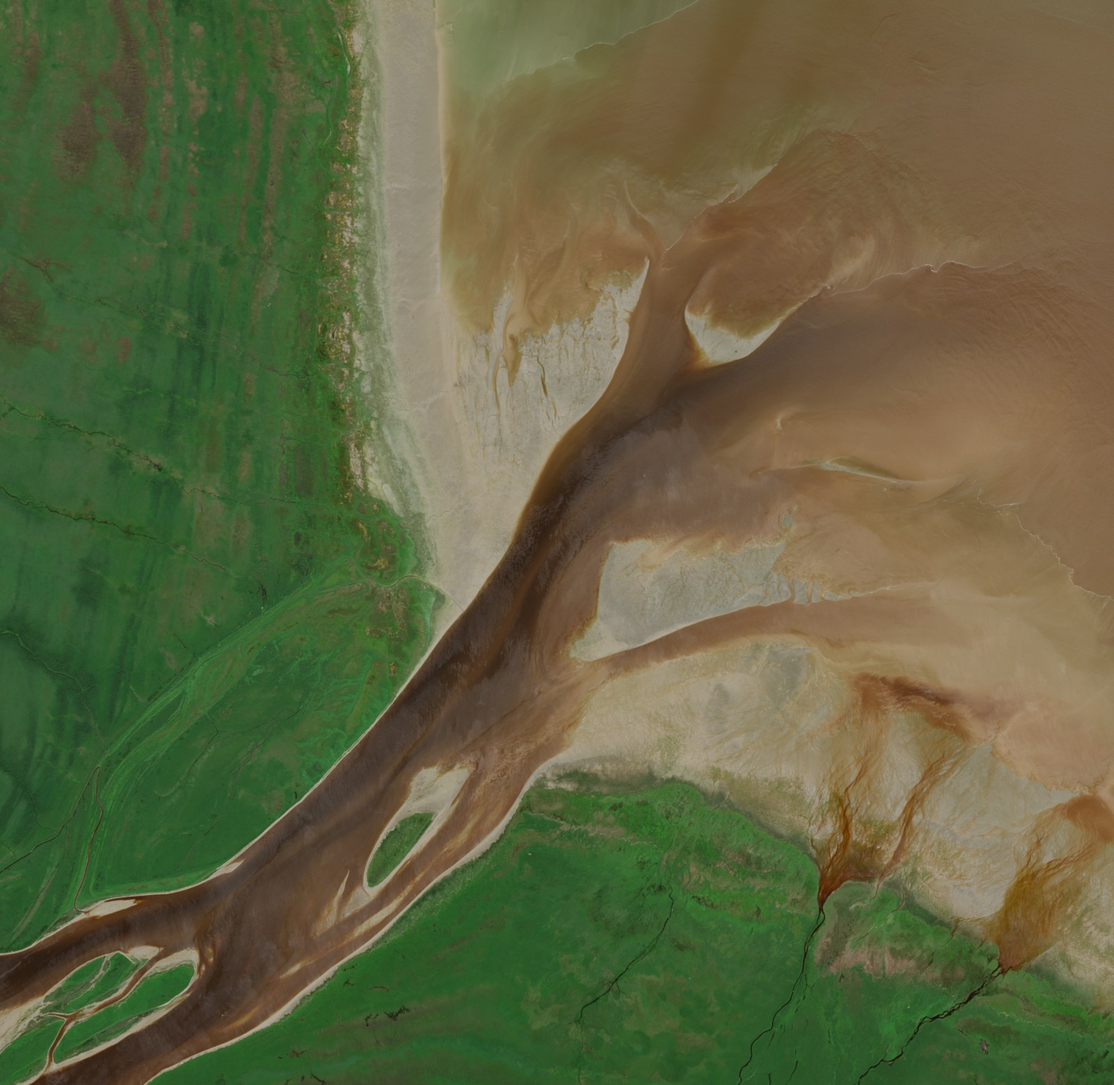
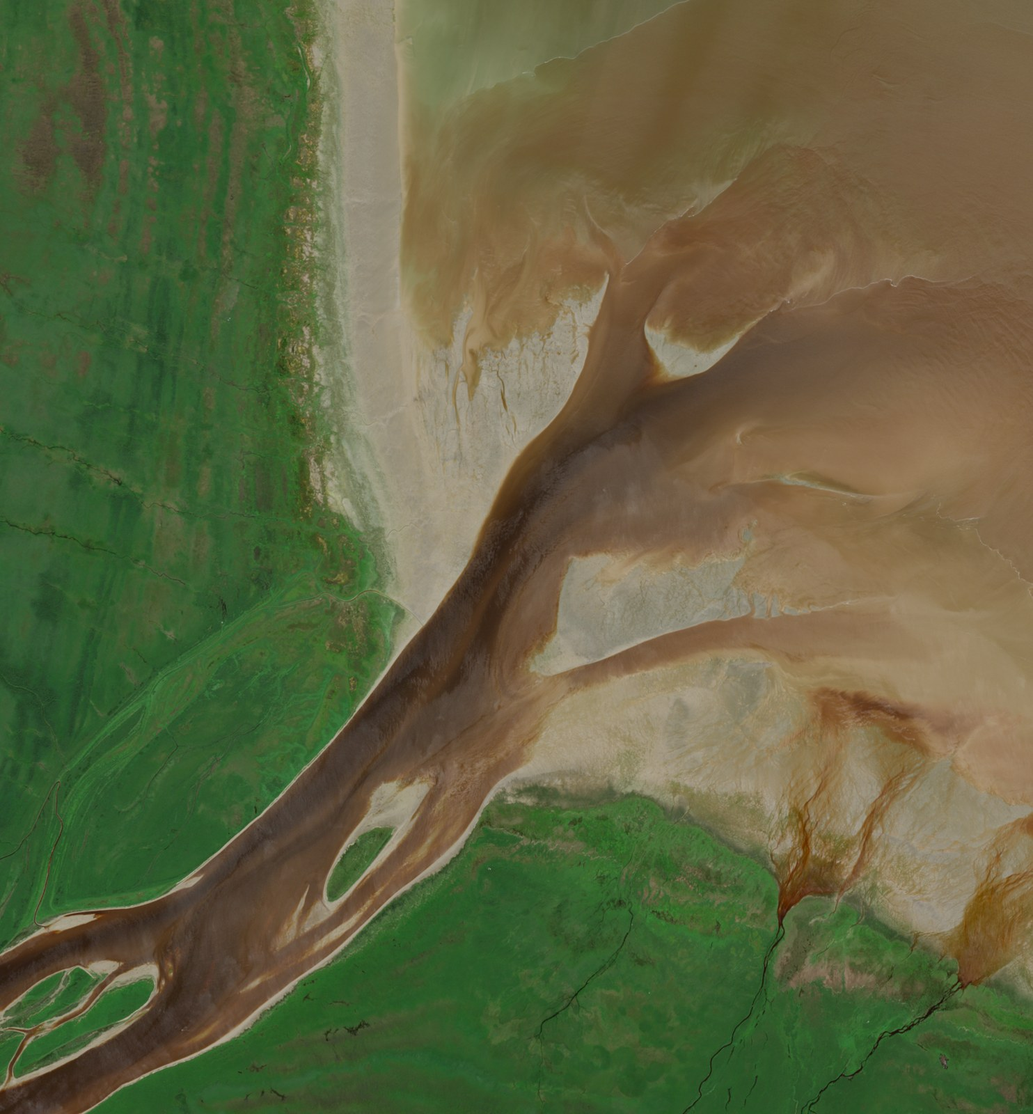
Re-render 10 former-SE pieces to flat 16x20 spec, matching the rest of the catalogue
Forest Braid, Salt Pond Isle, Cape Divide, Canterbury Braid, Amber Estuary,
Bleeding Delta, Red Estuary, Silver Melt, Green Maze, River's Fingers were
still at the old 5850x7050 wrap-inclusive canvas spec (0.83 aspect) from
their original SE Series rendering. Re-rendered via make_16x20_fullbleed.py
to the flat 4800x6000 spec (0.8 aspect) used by the rest of the catalogue.

diff --git a/index.html b/index.html
@@ -879,7 +879,7 @@
   </div>
 </a></div>
 <div class="grid-item" data-collection="ice-water" data-country="US"><a class="card" href="collections/ice-water/the-forest-braid-no-1/index.html">
-  <div class="card-img" style="aspect-ratio: 1328 / 1600;"><img src="assets/img/FFO-US-008/poster-preview.jpg" alt="The Forest Braid No. 1 — satellite art poster of Tanana River · Alaska, USA, shown with its museum label" loading="lazy"></div>
+  <div class="card-img" style="aspect-ratio: 1280 / 1600;"><img src="assets/img/FFO-US-008/poster-preview.jpg" alt="The Forest Braid No. 1 — satellite art poster of Tanana River · Alaska, USA, shown with its museum label" loading="lazy"></div>
   <div class="card-body">
     <h3>The Forest Braid No. 1</h3>
     <p class="card-place">Tanana River · Alaska, USA</p>
@@ -887,7 +887,7 @@
   </div>
 </a></div>
 <div class="grid-item" data-collection="ice-water" data-country="US"><a class="card" href="collections/ice-water/the-salt-pond-isle-no-1/index.html">
-  <div class="card-img" style="aspect-ratio: 1328 / 1600;"><img src="assets/img/FFO-US-009/poster-preview.jpg" alt="The Salt Pond Isle No. 1 — satellite art poster of Block Island · Rhode Island, USA, shown with its museum label" loading="lazy"></div>
+  <div class="card-img" style="aspect-ratio: 1280 / 1600;"><img src="assets/img/FFO-US-009/poster-preview.jpg" alt="The Salt Pond Isle No. 1 — satellite art poster of Block Island · Rhode Island, USA, shown with its museum label" loading="lazy"></div>
   <div class="card-body">
     <h3>The Salt Pond Isle No. 1</h3>
     <p class="card-place">Block Island · Rhode Island, USA</p>
@@ -895,7 +895,7 @@
   </div>
 </a></div>
 <div class="grid-item" data-collection="ice-water" data-country="CA"><a class="card" href="collections/ice-water/the-amber-estuary-no-1/index.html">
-  <div class="card-img" style="aspect-ratio: 1328 / 1600;"><img src="assets/img/FFO-CA-015/poster-preview.jpg" alt="The Amber Estuary No. 1 — satellite art poster of James Bay coast · Ontario, Canada, shown with its museum label" loading="lazy"></div>
+  <div class="card-img" style="aspect-ratio: 1280 / 1600;"><img src="assets/img/FFO-CA-015/poster-preview.jpg" alt="The Amber Estuary No. 1 — satellite art poster of James Bay coast · Ontario, Canada, shown with its museum label" loading="lazy"></div>
   <div class="card-body">
     <h3>The Amber Estuary No. 1</h3>
     <p class="card-place">James Bay coast · Ontario, Canada</p>
@@ -903,7 +903,7 @@
   </div>
 </a></div>
 <div class="grid-item" data-collection="ice-water" data-country="IS"><a class="card" href="collections/ice-water/the-silver-melt-no-1/index.html">
-  <div class="card-img" style="aspect-ratio: 1328 / 1600;"><img src="assets/img/FFO-IS-003/poster-preview.jpg" alt="The Silver Melt No. 1 — satellite art poster of South Iceland, shown with its museum label" loading="lazy"></div>
+  <div class="card-img" style="aspect-ratio: 1280 / 1600;"><img src="assets/img/FFO-IS-003/poster-preview.jpg" alt="The Silver Melt No. 1 — satellite art poster of South Iceland, shown with its museum label" loading="lazy"></div>
   <div class="card-body">
     <h3>The Silver Melt No. 1</h3>
     <p class="card-place">South Iceland</p>
@@ -911,7 +911,7 @@
   </div>
 </a></div>
 <div class="grid-item" data-collection="ice-water" data-country="BD"><a class="card" href="collections/ice-water/the-green-maze-no-1/index.html">
-  <div class="card-img" style="aspect-ratio: 1328 / 1600;"><img src="assets/img/FFO-BD-002/poster-preview.jpg" alt="The Green Maze No. 1 — satellite art poster of Sundarbans coast · Bangladesh, shown with its museum label" loading="lazy"></div>
+  <div class="card-img" style="aspect-ratio: 1280 / 1600;"><img src="assets/img/FFO-BD-002/poster-preview.jpg" alt="The Green Maze No. 1 — satellite art poster of Sundarbans coast · Bangladesh, shown with its museum label" loading="lazy"></div>
   <div class="card-body">
     <h3>The Green Maze No. 1</h3>
     <p class="card-place">Sundarbans coast · Bangladesh</p>
@@ -919,7 +919,7 @@
   </div>
 </a></div>
 <div class="grid-item" data-collection="ice-water" data-country="MM"><a class="card" href="collections/ice-water/the-rivers-fingers-no-1/index.html">
-  <div class="card-img" style="aspect-ratio: 1328 / 1600;"><img src="assets/img/FFO-MM-001/poster-preview.jpg" alt="The River's Fingers No. 1 — satellite art poster of Irrawaddy Delta · Myanmar, shown with its museum label" loading="lazy"></div>
+  <div class="card-img" style="aspect-ratio: 1280 / 1600;"><img src="assets/img/FFO-MM-001/poster-preview.jpg" alt="The River's Fingers No. 1 — satellite art poster of Irrawaddy Delta · Myanmar, shown with its museum label" loading="lazy"></div>
   <div class="card-body">
     <h3>The River's Fingers No. 1</h3>
     <p class="card-place">Irrawaddy Delta · Myanmar</p>
@@ -927,7 +927,7 @@
   </div>
 </a></div>
 <div class="grid-item" data-collection="ice-water" data-country="NZ"><a class="card" href="collections/ice-water/the-canterbury-braid-no-1/index.html">
-  <div class="card-img" style="aspect-ratio: 1328 / 1600;"><img src="assets/img/FFO-NZ-001/poster-preview.jpg" alt="The Canterbury Braid No. 1 — satellite art poster of Canterbury, New Zealand, shown with its museum label" loading="lazy"></div>
+  <div class="card-img" style="aspect-ratio: 1280 / 1600;"><img src="assets/img/FFO-NZ-001/poster-preview.jpg" alt="The Canterbury Braid No. 1 — satellite art poster of Canterbury, New Zealand, shown with its museum label" loading="lazy"></div>
   <div class="card-body">
     <h3>The Canterbury Braid No. 1</h3>
     <p class="card-place">Canterbury, New Zealand</p>
@@ -935,7 +935,7 @@
   </div>
 </a></div>
 <div class="grid-item" data-collection="ice-water" data-country="ZA"><a class="card" href="collections/ice-water/the-cape-divide-no-1/index.html">
-  <div class="card-img" style="aspect-ratio: 1328 / 1600;"><img src="assets/img/FFO-ZA-001/poster-preview.jpg" alt="The Cape Divide No. 1 — satellite art poster of Southern Cape coast · South Africa, shown with its museum label" loading="lazy"></div>
+  <div class="card-img" style="aspect-ratio: 1280 / 1600;"><img src="assets/img/FFO-ZA-001/poster-preview.jpg" alt="The Cape Divide No. 1 — satellite art poster of Southern Cape coast · South Africa, shown with its museum label" loading="lazy"></div>
   <div class="card-body">
     <h3>The Cape Divide No. 1</h3>
     <p class="card-place">Southern Cape coast · South Africa</p>
@@ -943,7 +943,7 @@
   </div>
 </a></div>
 <div class="grid-item" data-collection="ice-water" data-country="MG"><a class="card" href="collections/ice-water/the-bleeding-delta-no-1/index.html">
-  <div class="card-img" style="aspect-ratio: 1328 / 1600;"><img src="assets/img/FFO-MG-001/poster-preview.jpg" alt="The Bleeding Delta No. 1 — satellite art poster of Bombetoka Bay · Madagascar, shown with its museum label" loading="lazy"></div>
+  <div class="card-img" style="aspect-ratio: 1280 / 1600;"><img src="assets/img/FFO-MG-001/poster-preview.jpg" alt="The Bleeding Delta No. 1 — satellite art poster of Bombetoka Bay · Madagascar, shown with its museum label" loading="lazy"></div>
   <div class="card-body">
     <h3>The Bleeding Delta No. 1</h3>
     <p class="card-place">Bombetoka Bay · Madagascar</p>
@@ -951,7 +951,7 @@
   </div>
 </a></div>
 <div class="grid-item" data-collection="ice-water" data-country="MG"><a class="card" href="collections/ice-water/the-red-estuary-no-1/index.html">
-  <div class="card-img" style="aspect-ratio: 1328 / 1600;"><img src="assets/img/FFO-MG-002/poster-preview.jpg" alt="The Red Estuary No. 1 — satellite art poster of Bombetoka Bay · Madagascar, shown with its museum label" loading="lazy"></div>
+  <div class="card-img" style="aspect-ratio: 1280 / 1600;"><img src="assets/img/FFO-MG-002/poster-preview.jpg" alt="The Red Estuary No. 1 — satellite art poster of Bombetoka Bay · Madagascar, shown with its museum label" loading="lazy"></div>
   <div class="card-body">
     <h3>The Red Estuary No. 1</h3>
     <p class="card-place">Bombetoka Bay · Madagascar</p>

diff --git a/favourites/index.html b/favourites/index.html
@@ -75,7 +75,7 @@
   </div>
 </a></div>
 <div class="grid-item" data-fav-code="FFO-CA-015"><a class="card" href="../collections/ice-water/the-amber-estuary-no-1/index.html">
-  <div class="card-img" style="aspect-ratio: 1328 / 1600;"><img src="../assets/img/FFO-CA-015/poster-preview.jpg" alt="The Amber Estuary No. 1 — satellite art poster of James Bay coast · Ontario, Canada, shown with its museum label" loading="lazy"></div>
+  <div class="card-img" style="aspect-ratio: 1280 / 1600;"><img src="../assets/img/FFO-CA-015/poster-preview.jpg" alt="The Amber Estuary No. 1 — satellite art poster of James Bay coast · Ontario, Canada, shown with its museum label" loading="lazy"></div>
   <div class="card-body">
     <h3>The Amber Estuary No. 1</h3>
     <p class="card-place">James Bay coast · Ontario, Canada</p>
@@ -91,7 +91,7 @@
   </div>
 </a></div>
 <div class="grid-item" data-fav-code="FFO-MG-001"><a class="card" href="../collections/ice-water/the-bleeding-delta-no-1/index.html">
-  <div class="card-img" style="aspect-ratio: 1328 / 1600;"><img src="../assets/img/FFO-MG-001/poster-preview.jpg" alt="The Bleeding Delta No. 1 — satellite art poster of Bombetoka Bay · Madagascar, shown with its museum label" loading="lazy"></div>
+  <div class="card-img" style="aspect-ratio: 1280 / 1600;"><img src="../assets/img/FFO-MG-001/poster-preview.jpg" alt="The Bleeding Delta No. 1 — satellite art poster of Bombetoka Bay · Madagascar, shown with its museum label" loading="lazy"></div>
   <div class="card-body">
     <h3>The Bleeding Delta No. 1</h3>
     <p class="card-place">Bombetoka Bay · Madagascar</p>
@@ -107,7 +107,7 @@
   </div>
 </a></div>
 <div class="grid-item" data-fav-code="FFO-NZ-001"><a class="card" href="../collections/ice-water/the-canterbury-braid-no-1/index.html">
-  <div class="card-img" style="aspect-ratio: 1328 / 1600;"><img src="../assets/img/FFO-NZ-001/poster-preview.jpg" alt="The Canterbury Braid No. 1 — satellite art poster of Canterbury, New Zealand, shown with its museum label" loading="lazy"></div>
+  <div class="card-img" style="aspect-ratio: 1280 / 1600;"><img src="../assets/img/FFO-NZ-001/poster-preview.jpg" alt="The Canterbury Braid No. 1 — satellite art poster of Canterbury, New Zealand, shown with its museum label" loading="lazy"></div>
   <div class="card-body">
     <h3>The Canterbury Braid No. 1</h3>
     <p class="card-place">Canterbury, New Zealand</p>
@@ -115,7 +115,7 @@
   </div>
 </a></div>
 <div class="grid-item" data-fav-code="FFO-ZA-001"><a class="card" href="../collections/ice-water/the-cape-divide-no-1/index.html">
-  <div class="card-img" style="aspect-ratio: 1328 / 1600;"><img src="../assets/img/FFO-ZA-001/poster-preview.jpg" alt="The Cape Divide No. 1 — satellite art poster of Southern Cape coast · South Africa, shown with its museum label" loading="lazy"></div>
+  <div class="card-img" style="aspect-ratio: 1280 / 1600;"><img src="../assets/img/FFO-ZA-001/poster-preview.jpg" alt="The Cape Divide No. 1 — satellite art poster of Southern Cape coast · South Africa, shown with its museum label" loading="lazy"></div>
   <div class="card-body">
     <h3>The Cape Divide No. 1</h3>
     <p class="card-place">Southern Cape coast · South Africa</p>
@@ -251,7 +251,7 @@
   </div>
 </a></div>
 <div class="grid-item" data-fav-code="FFO-US-008"><a class="card" href="../collections/ice-water/the-forest-braid-no-1/index.html">
-  <div class="card-img" style="aspect-ratio: 1328 / 1600;"><img src="../assets/img/FFO-US-008/poster-preview.jpg" alt="The Forest Braid No. 1 — satellite art poster of Tanana River · Alaska, USA, shown with its museum label" loading="lazy"></div>
+  <div class="card-img" style="aspect-ratio: 1280 / 1600;"><img src="../assets/img/FFO-US-008/poster-preview.jpg" alt="The Forest Braid No. 1 — satellite art poster of Tanana River · Alaska, USA, shown with its museum label" loading="lazy"></div>
   <div class="card-body">
     <h3>The Forest Braid No. 1</h3>
     <p class="card-place">Tanana River · Alaska, USA</p>
@@ -291,7 +291,7 @@
   </div>
 </a></div>
 <div class="grid-item" data-fav-code="FFO-BD-002"><a class="card" href="../collections/ice-water/the-green-maze-no-1/index.html">
-  <div class="card-img" style="aspect-ratio: 1328 / 1600;"><img src="../assets/img/FFO-BD-002/poster-preview.jpg" alt="The Green Maze No. 1 — satellite art poster of Sundarbans coast · Bangladesh, shown with its museum label" loading="lazy"></div>
+  <div class="card-img" style="aspect-ratio: 1280 / 1600;"><img src="../assets/img/FFO-BD-002/poster-preview.jpg" alt="The Green Maze No. 1 — satellite art poster of Sundarbans coast · Bangladesh, shown with its museum label" loading="lazy"></div>
   <div class="card-body">
     <h3>The Green Maze No. 1</h3>
     <p class="card-place">Sundarbans coast · Bangladesh</p>
@@ -395,7 +395,7 @@
   </div>
 </a></div>
 <div class="grid-item" data-fav-code="FFO-MG-002"><a class="card" href="../collections/ice-water/the-red-estuary-no-1/index.html">
-  <div class="card-img" style="aspect-ratio: 1328 / 1600;"><img src="../assets/img/FFO-MG-002/poster-preview.jpg" alt="The Red Estuary No. 1 — satellite art poster of Bombetoka Bay · Madagascar, shown with its museum label" loading="lazy"></div>
+  <div class="card-img" style="aspect-ratio: 1280 / 1600;"><img src="../assets/img/FFO-MG-002/poster-preview.jpg" alt="The Red Estuary No. 1 — satellite art poster of Bombetoka Bay · Madagascar, shown with its museum label" loading="lazy"></div>
   <div class="card-body">
     <h3>The Red Estuary No. 1</h3>
     <p class="card-place">Bombetoka Bay · Madagascar</p>
@@ -427,7 +427,7 @@
   </div>
 </a></div>
 <div class="grid-item" data-fav-code="FFO-MM-001"><a class="card" href="../collections/ice-water/the-rivers-fingers-no-1/index.html">
-  <div class="card-img" style="aspect-ratio: 1328 / 1600;"><img src="../assets/img/FFO-MM-001/poster-preview.jpg" alt="The River's Fingers No. 1 — satellite art poster of Irrawaddy Delta · Myanmar, shown with its museum label" loading="lazy"></div>
+  <div class="card-img" style="aspect-ratio: 1280 / 1600;"><img src="../assets/img/FFO-MM-001/poster-preview.jpg" alt="The River's Fingers No. 1 — satellite art poster of Irrawaddy Delta · Myanmar, shown with its museum label" loading="lazy"></div>
   <div class="card-body">
     <h3>The River's Fingers No. 1</h3>
     <p class="card-place">Irrawaddy Delta · Myanmar</p>
@@ -451,7 +451,7 @@
   </div>
 </a></div>
 <div class="grid-item" data-fav-code="FFO-US-009"><a class="card" href="../collections/ice-water/the-salt-pond-isle-no-1/index.html">
-  <div class="card-img" style="aspect-ratio: 1328 / 1600;"><img src="../assets/img/FFO-US-009/poster-preview.jpg" alt="The Salt Pond Isle No. 1 — satellite art poster of Block Island · Rhode Island, USA, shown with its museum label" loading="lazy"></div>
+  <div class="card-img" style="aspect-ratio: 1280 / 1600;"><img src="../assets/img/FFO-US-009/poster-preview.jpg" alt="The Salt Pond Isle No. 1 — satellite art poster of Block Island · Rhode Island, USA, shown with its museum label" loading="lazy"></div>
   <div class="card-body">
     <h3>The Salt Pond Isle No. 1</h3>
     <p class="card-place">Block Island · Rhode Island, USA</p>
@@ -483,7 +483,7 @@
   </div>
 </a></div>
 <div class="grid-item" data-fav-code="FFO-IS-003"><a class="card" href="../collections/ice-water/the-silver-melt-no-1/index.html">
-  <div class="card-img" style="aspect-ratio: 1328 / 1600;"><img src="../assets/img/FFO-IS-003/poster-preview.jpg" alt="The Silver Melt No. 1 — satellite art poster of South Iceland, shown with its museum label" loading="lazy"></div>
+  <div class="card-img" style="aspect-ratio: 1280 / 1600;"><img src="../assets/img/FFO-IS-003/poster-preview.jpg" alt="The Silver Melt No. 1 — satellite art poster of South Iceland, shown with its museum label" loading="lazy"></div>
   <div class="card-body">
     <h3>The Silver Melt No. 1</h3>
     <p class="card-place">South Iceland</p>

diff --git a/collections/ice-water/index.html b/collections/ice-water/index.html
@@ -226,7 +226,7 @@
   </div>
 </a></div>
 <div class="grid-item"><a class="card" href="../../collections/ice-water/the-forest-braid-no-1/index.html">
-  <div class="card-img" style="aspect-ratio: 1328 / 1600;"><img src="../../assets/img/FFO-US-008/poster-preview.jpg" alt="The Forest Braid No. 1 — satellite art poster of Tanana River · Alaska, USA, shown with its museum label" loading="lazy"></div>
+  <div class="card-img" style="aspect-ratio: 1280 / 1600;"><img src="../../assets/img/FFO-US-008/poster-preview.jpg" alt="The Forest Braid No. 1 — satellite art poster of Tanana River · Alaska, USA, shown with its museum label" loading="lazy"></div>
   <div class="card-body">
     <h3>The Forest Braid No. 1</h3>
     <p class="card-place">Tanana River · Alaska, USA</p>
@@ -234,7 +234,7 @@
   </div>
 </a></div>
 <div class="grid-item"><a class="card" href="../../collections/ice-water/the-salt-pond-isle-no-1/index.html">
-  <div class="card-img" style="aspect-ratio: 1328 / 1600;"><img src="../../assets/img/FFO-US-009/poster-preview.jpg" alt="The Salt Pond Isle No. 1 — satellite art poster of Block Island · Rhode Island, USA, shown with its museum label" loading="lazy"></div>
+  <div class="card-img" style="aspect-ratio: 1280 / 1600;"><img src="../../assets/img/FFO-US-009/poster-preview.jpg" alt="The Salt Pond Isle No. 1 — satellite art poster of Block Island · Rhode Island, USA, shown with its museum label" loading="lazy"></div>
   <div class="card-body">
     <h3>The Salt Pond Isle No. 1</h3>
     <p class="card-place">Block Island · Rhode Island, USA</p>
@@ -242,7 +242,7 @@
   </div>
 </a></div>
 <div class="grid-item"><a class="card" href="../../collections/ice-water/the-amber-estuary-no-1/index.html">
-  <div class="card-img" style="aspect-ratio: 1328 / 1600;"><img src="../../assets/img/FFO-CA-015/poster-preview.jpg" alt="The Amber Estuary No. 1 — satellite art poster of James Bay coast · Ontario, Canada, shown with its museum label" loading="lazy"></div>
+  <div class="card-img" style="aspect-ratio: 1280 / 1600;"><img src="../../assets/img/FFO-CA-015/poster-preview.jpg" alt="The Amber Estuary No. 1 — satellite art poster of James Bay coast · Ontario, Canada, shown with its museum label" loading="lazy"></div>
   <div class="card-body">
     <h3>The Amber Estuary No. 1</h3>
     <p class="card-place">James Bay coast · Ontario, Canada</p>
@@ -250,7 +250,7 @@
   </div>
 </a></div>
 <div class="grid-item"><a class="card" href="../../collections/ice-water/the-silver-melt-no-1/index.html">
-  <div class="card-img" style="aspect-ratio: 1328 / 1600;"><img src="../../assets/img/FFO-IS-003/poster-preview.jpg" alt="The Silver Melt No. 1 — satellite art poster of South Iceland, shown with its museum label" loading="lazy"></div>
+  <div class="card-img" style="aspect-ratio: 1280 / 1600;"><img src="../../assets/img/FFO-IS-003/poster-preview.jpg" alt="The Silver Melt No. 1 — satellite art poster of South Iceland, shown with its museum label" loading="lazy"></div>
   <div class="card-body">
     <h3>The Silver Melt No. 1</h3>
     <p class="card-place">South Iceland</p>
@@ -258,7 +258,7 @@
   </div>
 </a></div>
 <div class="grid-item"><a class="card" href="../../collections/ice-water/the-green-maze-no-1/index.html">
-  <div class="card-img" style="aspect-ratio: 1328 / 1600;"><img src="../../assets/img/FFO-BD-002/poster-preview.jpg" alt="The Green Maze No. 1 — satellite art poster of Sundarbans coast · Bangladesh, shown with its museum label" loading="lazy"></div>
+  <div class="card-img" style="aspect-ratio: 1280 / 1600;"><img src="../../assets/img/FFO-BD-002/poster-preview.jpg" alt="The Green Maze No. 1 — satellite art poster of Sundarbans coast · Bangladesh, shown with its museum label" loading="lazy"></div>
   <div class="card-body">
     <h3>The Green Maze No. 1</h3>
     <p class="card-place">Sundarbans coast · Bangladesh</p>
@@ -266,7 +266,7 @@
   </div>
 </a></div>
 <div class="grid-item"><a class="card" href="../../collections/ice-water/the-rivers-fingers-no-1/index.html">
-  <div class="card-img" style="aspect-ratio: 1328 / 1600;"><img src="../../assets/img/FFO-MM-001/poster-preview.jpg" alt="The River's Fingers No. 1 — satellite art poster of Irrawaddy Delta · Myanmar, shown with its museum label" loading="lazy"></div>
+  <div class="card-img" style="aspect-ratio: 1280 / 1600;"><img src="../../assets/img/FFO-MM-001/poster-preview.jpg" alt="The River's Fingers No. 1 — satellite art poster of Irrawaddy Delta · Myanmar, shown with its museum label" loading="lazy"></div>
   <div class="card-body">
     <h3>The River's Fingers No. 1</h3>
     <p class="card-place">Irrawaddy Delta · Myanmar</p>
@@ -274,7 +274,7 @@
   </div>
 </a></div>
 <div class="grid-item"><a class="card" href="../../collections/ice-water/the-canterbury-braid-no-1/index.html">
-  <div class="card-img" style="aspect-ratio: 1328 / 1600;"><img src="../../assets/img/FFO-NZ-001/poster-preview.jpg" alt="The Canterbury Braid No. 1 — satellite art poster of Canterbury, New Zealand, shown with its museum label" loading="lazy"></div>
+  <div class="card-img" style="aspect-ratio: 1280 / 1600;"><img src="../../assets/img/FFO-NZ-001/poster-preview.jpg" alt="The Canterbury Braid No. 1 — satellite art poster of Canterbury, New Zealand, shown with its museum label" loading="lazy"></div>
   <div class="card-body">
     <h3>The Canterbury Braid No. 1</h3>
     <p class="card-place">Canterbury, New Zealand</p>
@@ -282,7 +282,7 @@
   </div>
 </a></div>
 <div class="grid-item"><a class="card" href="../../collections/ice-water/the-cape-divide-no-1/index.html">
-  <div class="card-img" style="aspect-ratio: 1328 / 1600;"><img src="../../assets/img/FFO-ZA-001/poster-preview.jpg" alt="The Cape Divide No. 1 — satellite art poster of Southern Cape coast · South Africa, shown with its museum label" loading="lazy"></div>
+  <div class="card-img" style="aspect-ratio: 1280 / 1600;"><img src="../../assets/img/FFO-ZA-001/poster-preview.jpg" alt="The Cape Divide No. 1 — satellite art poster of Southern Cape coast · South Africa, shown with its museum label" loading="lazy"></div>
   <div class="card-body">
     <h3>The Cape Divide No. 1</h3>
     <p class="card-place">Southern Cape coast · South Africa</p>
@@ -290,7 +290,7 @@
   </div>
 </a></div>
 <div class="grid-item"><a class="card" href="../../collections/ice-water/the-bleeding-delta-no-1/index.html">
-  <div class="card-img" style="aspect-ratio: 1328 / 1600;"><img src="../../assets/img/FFO-MG-001/poster-preview.jpg" alt="The Bleeding Delta No. 1 — satellite art poster of Bombetoka Bay · Madagascar, shown with its museum label" loading="lazy"></div>
+  <div class="card-img" style="aspect-ratio: 1280 / 1600;"><img src="../../assets/img/FFO-MG-001/poster-preview.jpg" alt="The Bleeding Delta No. 1 — satellite art poster of Bombetoka Bay · Madagascar, shown with its museum label" loading="lazy"></div>
   <div class="card-body">
     <h3>The Bleeding Delta No. 1</h3>
     <p class="card-place">Bombetoka Bay · Madagascar</p>
@@ -298,7 +298,7 @@
   </div>
 </a></div>
 <div class="grid-item"><a class="card" href="../../collections/ice-water/the-red-estuary-no-1/index.html">
-  <div class="card-img" style="aspect-ratio: 1328 / 1600;"><img src="../../assets/img/FFO-MG-002/poster-preview.jpg" alt="The Red Estuary No. 1 — satellite art poster of Bombetoka Bay · Madagascar, shown with its museum label" loading="lazy"></div>
+  <div class="card-img" style="aspect-ratio: 1280 / 1600;"><img src="../../assets/img/FFO-MG-002/poster-preview.jpg" alt="The Red Estuary No. 1 — satellite art poster of Bombetoka Bay · Madagascar, shown with its museum label" loading="lazy"></div>
   <div class="card-body">
     <h3>The Red Estuary No. 1</h3>
     <p class="card-place">Bombetoka Bay · Madagascar</p>

diff --git a/collections/ice-water/the-amber-estuary-no-1/index.html b/collections/ice-water/the-amber-estuary-no-1/index.html
@@ -57,7 +57,7 @@
     <div class="image-frame">
       <img id="main-image" class="zoomable" src="../../../assets/img/FFO-CA-015/poster-preview.jpg"
            data-art="../../../assets/img/FFO-CA-015/art-square.jpg" data-poster="../../../assets/img/FFO-CA-015/poster-preview.jpg"
-           width="1328" height="1600"
+           width="1280" height="1600"
            alt="The Amber Estuary No. 1 — satellite art print of James Bay coast · Ontario, Canada, captured 2026-07-30">
       <button class="like-overlay" data-code="FFO-CA-015" aria-pressed="false" aria-label="Like this piece">
         <span class="like-icon">&#9825;</span>

diff --git a/collections/ice-water/the-salt-pond-isle-no-1/index.html b/collections/ice-water/the-salt-pond-isle-no-1/index.html
@@ -57,7 +57,7 @@
     <div class="image-frame">
       <img id="main-image" class="zoomable" src="../../../assets/img/FFO-US-009/poster-preview.jpg"
            data-art="../../../assets/img/FFO-US-009/art-square.jpg" data-poster="../../../assets/img/FFO-US-009/poster-preview.jpg"
-           width="1328" height="1600"
+           width="1280" height="1600"
            alt="The Salt Pond Isle No. 1 — satellite art print of Block Island · Rhode Island, USA, captured 2026-06-24">
       <button class="like-overlay" data-code="FFO-US-009" aria-pressed="false" aria-label="Like this piece">
         <span class="like-icon">&#9825;</span>

diff --git a/collections/ice-water/the-cape-divide-no-1/index.html b/collections/ice-water/the-cape-divide-no-1/index.html
@@ -57,7 +57,7 @@
     <div class="image-frame">
       <img id="main-image" class="zoomable" src="../../../assets/img/FFO-ZA-001/poster-preview.jpg"
            data-art="../../../assets/img/FFO-ZA-001/art-square.jpg" data-poster="../../../assets/img/FFO-ZA-001/poster-preview.jpg"
-           width="1328" height="1600"
+           width="1280" height="1600"
            alt="The Cape Divide No. 1 — satellite art print of Southern Cape coast · South Africa, captured 2026-07-25">
       <button class="like-overlay" data-code="FFO-ZA-001" aria-pressed="false" aria-label="Like this piece">
         <span class="like-icon">&#9825;</span>

diff --git a/collections/ice-water/the-bleeding-delta-no-1/index.html b/collections/ice-water/the-bleeding-delta-no-1/index.html
@@ -57,7 +57,7 @@
     <div class="image-frame">
       <img id="main-image" class="zoomable" src="../../../assets/img/FFO-MG-001/poster-preview.jpg"
            data-art="../../../assets/img/FFO-MG-001/art-square.jpg" data-poster="../../../assets/img/FFO-MG-001/poster-preview.jpg"
-           width="1328" height="1600"
+           width="1280" height="1600"
            alt="The Bleeding Delta No. 1 — satellite art print of Bombetoka Bay · Madagascar, captured 2026-07-31">
       <button class="like-overlay" data-code="FFO-MG-001" aria-pressed="false" aria-label="Like this piece">
         <span class="like-icon">&#9825;</span>

diff --git a/collections/ice-water/the-rivers-fingers-no-1/index.html b/collections/ice-water/the-rivers-fingers-no-1/index.html
@@ -57,7 +57,7 @@
     <div class="image-frame">
       <img id="main-image" class="zoomable" src="../../../assets/img/FFO-MM-001/poster-preview.jpg"
            data-art="../../../assets/img/FFO-MM-001/art-square.jpg" data-poster="../../../assets/img/FFO-MM-001/poster-preview.jpg"
-           width="1328" height="1600"
+           width="1280" height="1600"
            alt="The River's Fingers No. 1 — satellite art print of Irrawaddy Delta · Myanmar, captured 2026-04-16">
       <button class="like-overlay" data-code="FFO-MM-001" aria-pressed="false" aria-label="Like this piece">
         <span class="like-icon">&#9825;</span>

diff --git a/collections/ice-water/the-green-maze-no-1/index.html b/collections/ice-water/the-green-maze-no-1/index.html
@@ -57,7 +57,7 @@
     <div class="image-frame">
       <img id="main-image" class="zoomable" src="../../../assets/img/FFO-BD-002/poster-preview.jpg"
            data-art="../../../assets/img/FFO-BD-002/art-square.jpg" data-poster="../../../assets/img/FFO-BD-002/poster-preview.jpg"
-           width="1328" height="1600"
+           width="1280" height="1600"
            alt="The Green Maze No. 1 — satellite art print of Sundarbans coast · Bangladesh, captured 2025-11-28">
       <button class="like-overlay" data-code="FFO-BD-002" aria-pressed="false" aria-label="Like this piece">
         <span class="like-icon">&#9825;</span>

diff --git a/collections/ice-water/the-canterbury-braid-no-1/index.html b/collections/ice-water/the-canterbury-braid-no-1/index.html
@@ -57,7 +57,7 @@
     <div class="image-frame">
       <img id="main-image" class="zoomable" src="../../../assets/img/FFO-NZ-001/poster-preview.jpg"
            data-art="../../../assets/img/FFO-NZ-001/art-square.jpg" data-poster="../../../assets/img/FFO-NZ-001/poster-preview.jpg"
-           width="1328" height="1600"
+           width="1280" height="1600"
            alt="The Canterbury Braid No. 1 — satellite art print of Canterbury, New Zealand, captured 2026-07-26">
       <button class="like-overlay" data-code="FFO-NZ-001" aria-pressed="false" aria-label="Like this piece">
         <span class="like-icon">&#9825;</span>

diff --git a/collections/ice-water/the-forest-braid-no-1/index.html b/collections/ice-water/the-forest-braid-no-1/index.html
@@ -57,7 +57,7 @@
     <div class="image-frame">
       <img id="main-image" class="zoomable" src="../../../assets/img/FFO-US-008/poster-preview.jpg"
            data-art="../../../assets/img/FFO-US-008/art-square.jpg" data-poster="../../../assets/img/FFO-US-008/poster-preview.jpg"
-           width="1328" height="1600"
+           width="1280" height="1600"
            alt="The Forest Braid No. 1 — satellite art print of Tanana River · Alaska, USA, captured 2026-06-03">
       <button class="like-overlay" data-code="FFO-US-008" aria-pressed="false" aria-label="Like this piece">
         <span class="like-icon">&#9825;</span>

diff --git a/collections/ice-water/the-red-estuary-no-1/index.html b/collections/ice-water/the-red-estuary-no-1/index.html
@@ -57,7 +57,7 @@
     <div class="image-frame">
       <img id="main-image" class="zoomable" src="../../../assets/img/FFO-MG-002/poster-preview.jpg"
            data-art="../../../assets/img/FFO-MG-002/art-square.jpg" data-poster="../../../assets/img/FFO-MG-002/poster-preview.jpg"
-           width="1328" height="1600"
+           width="1280" height="1600"
            alt="The Red Estuary No. 1 — satellite art print of Bombetoka Bay · Madagascar, captured 2026-07-31">
       <button class="like-overlay" data-code="FFO-MG-002" aria-pressed="false" aria-label="Like this piece">
         <span class="like-icon">&#9825;</span>
